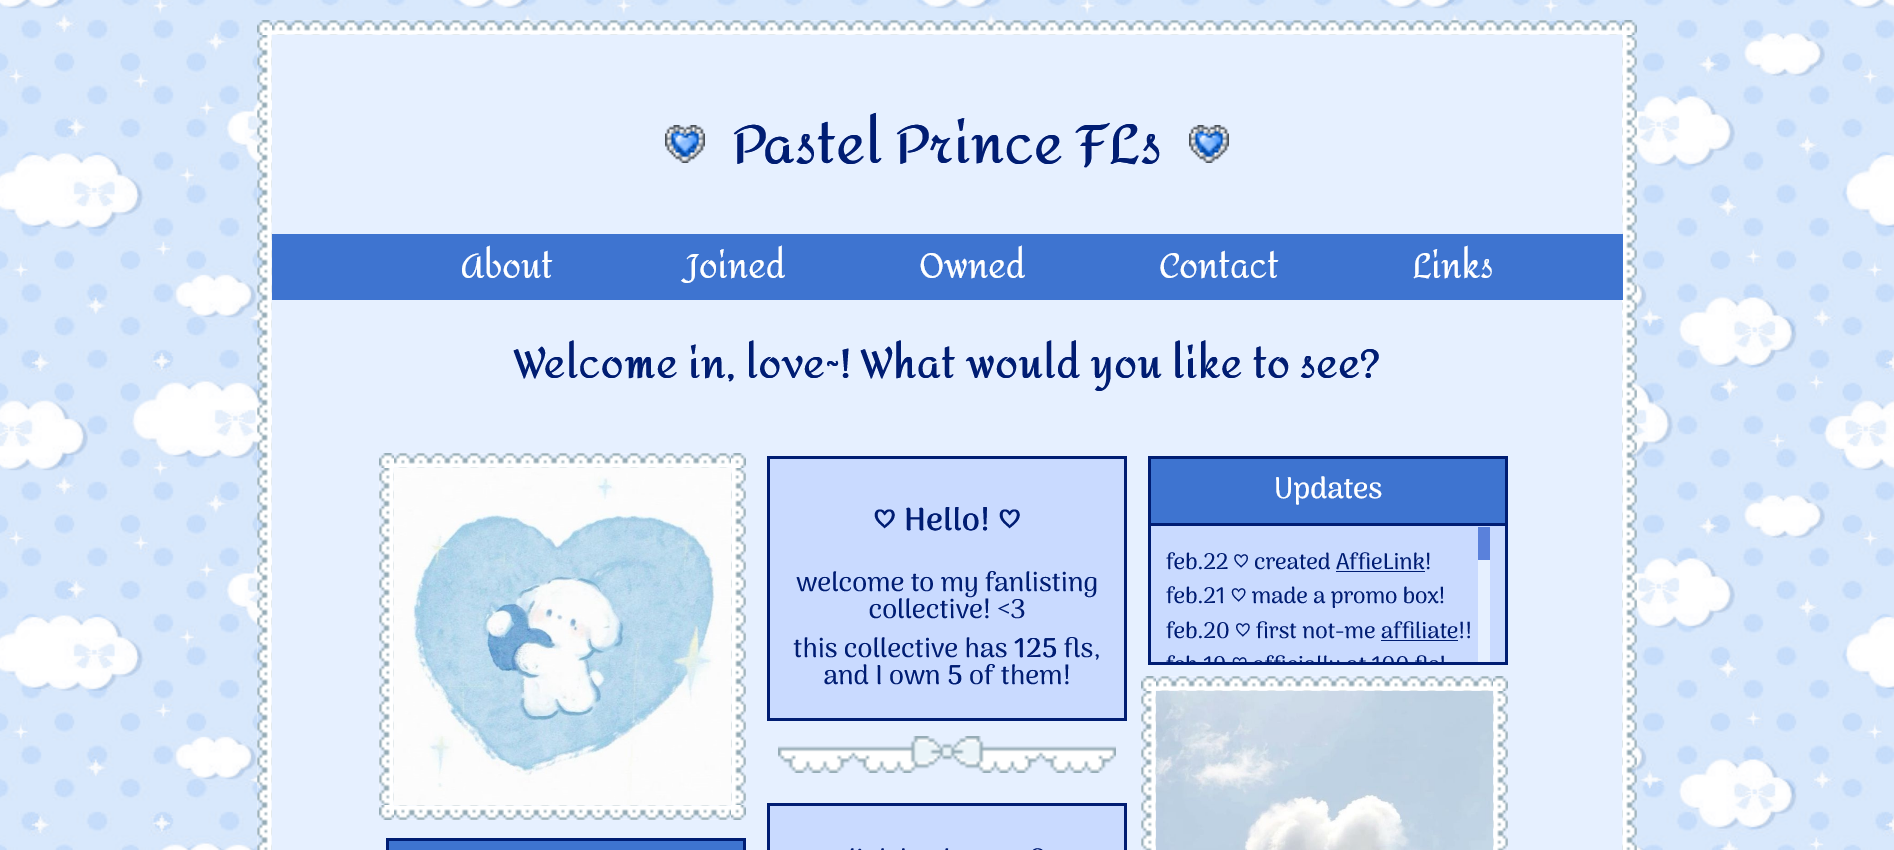
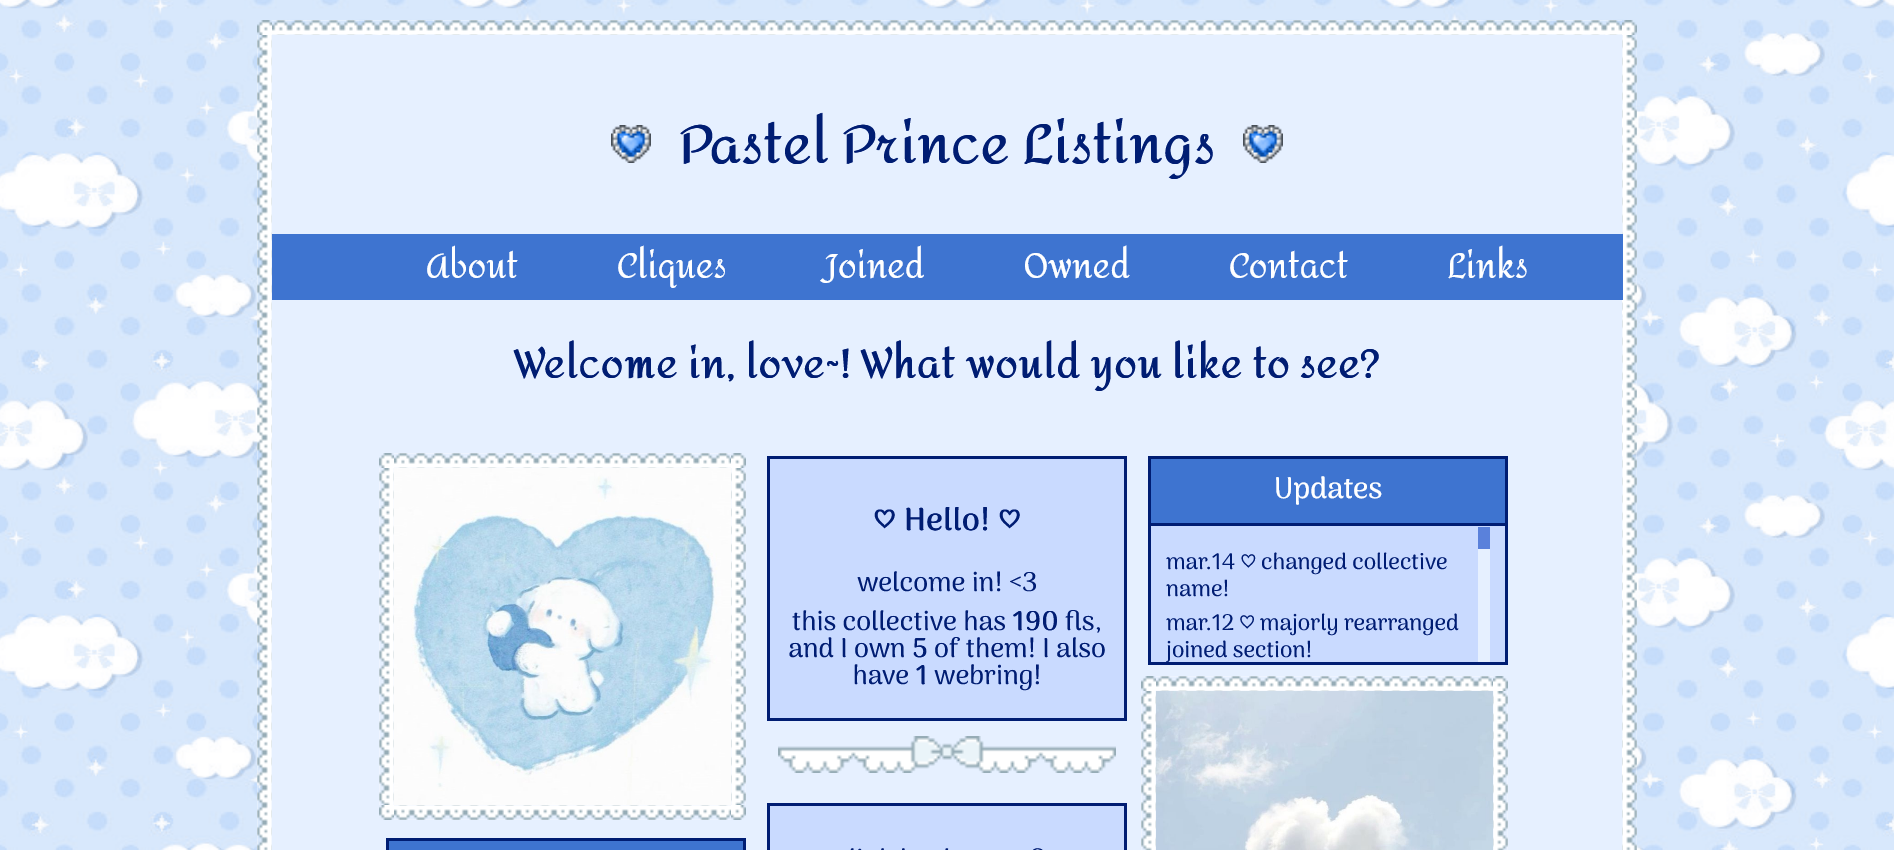
New collective name :3

diff --git a/index.html b/index.html
@@ -87,7 +87,7 @@
         <p>Frequently Updated · 2024 · <a href="https://github.com/baileylockheart/lockheartlove" target="_blank">Github Repo</a></p>
     </div>
     <div class="entry">
-        <h2>&#9734; <a href="https://pastelprince.lockheart.love/" target="_blank">Pastel Prince FLs &rarr;</a></h2>
+        <h2>&#9734; <a href="https://pastelprince.lockheart.love/" target="_blank">Pastel Prince Listings &rarr;</a></h2>
         <p>My fanlisting collective!</p>
         <img src="/images/pastelprince.png">
         <p>Frequently Updated · 2025 · <a href="https://github.com/baileylockheart/lockheartlove" target="_blank">Github Repo</a></p>
